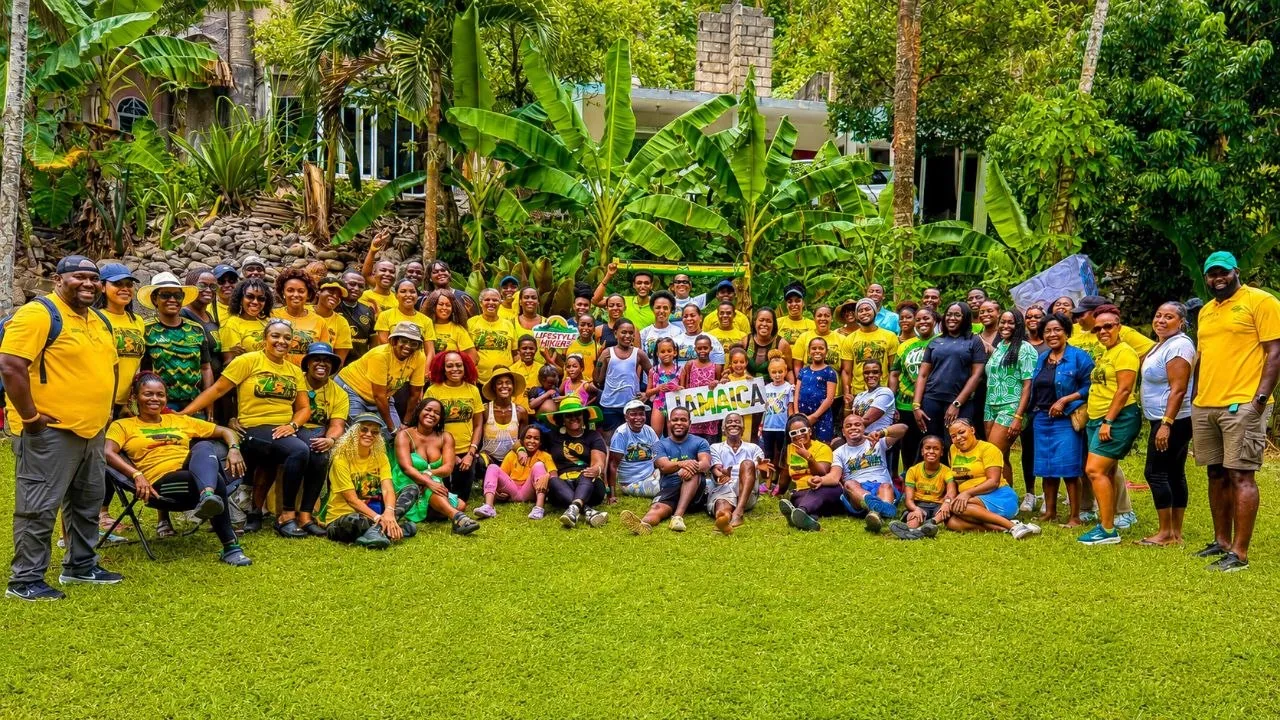
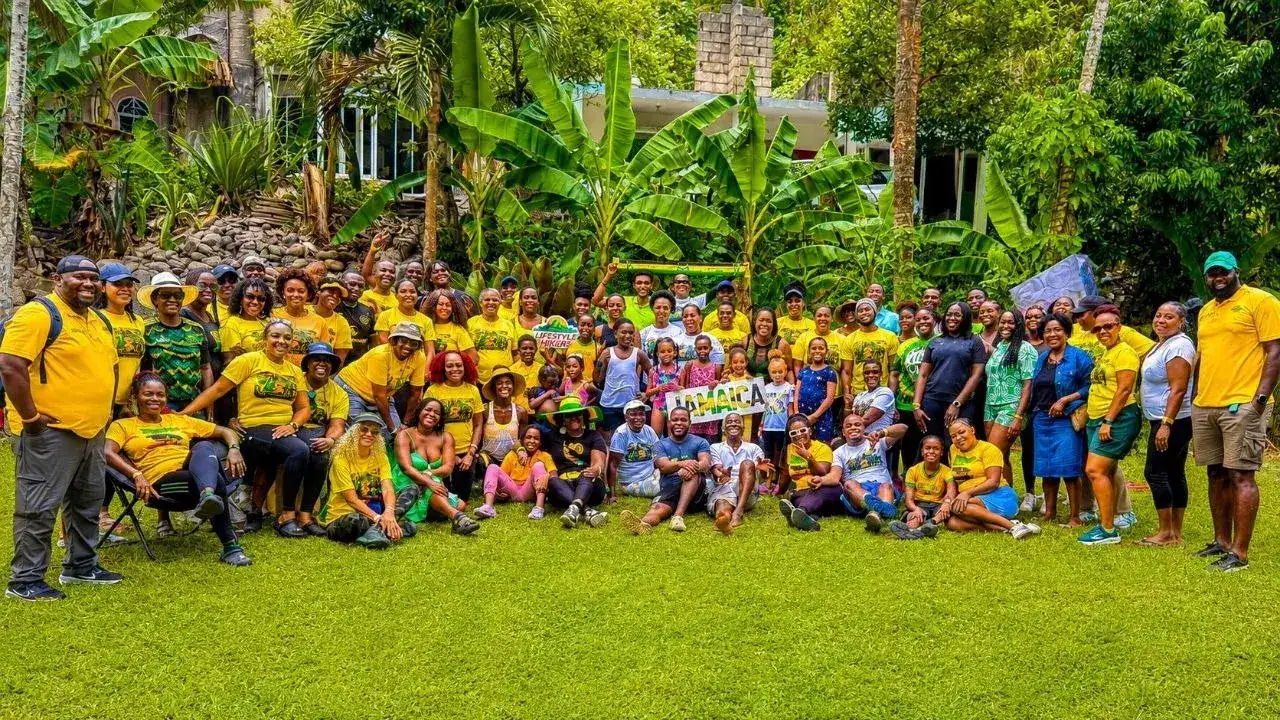
fix: accessibility + schema + image optimization
- Add Organization schema with aggregateRating from testimonial data
- Fix nav touch targets: 27px → 44px (add min-height + inline-flex)
- Fix footer CTA contrast: text → white, background opacity bump
- Compress hero WebP: 335KB → 246KB (27% savings) at quality 55

Changed region(s): [[0.5312, 0.55, 0.5938, 0.5806]]

diff --git a/_layouts/default.html b/_layouts/default.html
@@ -37,20 +37,60 @@
     {% else %}
         {% assign schema_type = "WebPage" %}
     {% endif %}
+
+    {% comment %} Aggregate testimonials for rating {% endcomment %}
+    {% assign testimonial_count = site.data.testimonials.items | size %}
+    {% assign total_rating = 0 %}
+    {% assign review_count = 0 %}
+    {% for t in site.data.testimonials.items %}
+      {% assign r = t.rating | plus: 0 %}
+      {% if r >= 1 and r <= 5 %}
+        {% assign total_rating = total_rating | plus: r %}
+        {% assign review_count = review_count | plus: 1 %}
+      {% endif %}
+    {% endfor %}
+    {% if review_count > 0 %}
+      {% assign avg_rating = total_rating | times: 1.0 | divided_by: review_count | round: 1 %}
+    {% else %}
+      {% assign avg_rating = 5.0 %}
+      {% assign review_count = testimonial_count %}
+    {% endif %}
+
     <script type="application/ld+json">
     {
      "@context": "https://schema.org",
-     "@type": "{{ schema_type }}",
-     "headline": "{{ schema_title | escape }}",
-     "description": "{{ meta_description | escape }}",
-     "author": {
-       "@type": "Organization",
-       "name": "Lifestyle Hikers"
-     },
-     "publisher": {
-       "@type": "Organization",
-       "name": "Lifestyle Hikers"
-     }
+     "@graph": [
+       {
+         "@type": "Organization",
+         "name": "Lifestyle Hikers",
+         "url": "{{ site.url }}",
+         "logo": "{{ site.url }}{{ site.logo }}",
+         "description": "{{ site.description | escape }}",
+         "email": "{{ site.email }}",
+         "sameAs": [
+           "{{ site.social.instagram }}"
+         ],
+         "aggregateRating": {
+           "@type": "AggregateRating",
+           "ratingValue": "{{ avg_rating }}",
+           "reviewCount": "{{ review_count }}",
+           "bestRating": "5"
+         }
+       },
+       {
+         "@type": "{{ schema_type }}",
+         "headline": "{{ schema_title | escape }}",
+         "description": "{{ meta_description | escape }}",
+         "author": {
+           "@type": "Organization",
+           "name": "Lifestyle Hikers"
+         },
+         "publisher": {
+           "@type": "Organization",
+           "name": "Lifestyle Hikers"
+         }
+       }
+     ]
     }
     </script>
 </head>

diff --git a/assets/css/style.css b/assets/css/style.css
@@ -335,8 +335,11 @@ textarea:focus-visible {
     font-weight: 500;
     color: var(--clr-text);
     position: relative;
-    padding: var(--space-xs) 0;
+    padding: 0.65rem 0;
     white-space: nowrap;
+    display: inline-flex;
+    align-items: center;
+    min-height: 44px;
 }
 
 .nav-links a::after {
@@ -1722,9 +1725,9 @@ textarea:focus-visible {
     padding: 0.75rem 1rem;
     margin-bottom: var(--space-lg);
     border-radius: var(--radius-md);
-    background: rgba(64, 145, 108, 0.16);
-    border: 1px solid rgba(64, 145, 108, 0.3);
-    color: var(--clr-text);
+    background: rgba(64, 145, 108, 0.22);
+    border: 1px solid rgba(64, 145, 108, 0.4);
+    color: var(--clr-white);
     font-weight: 600;
 }
 
